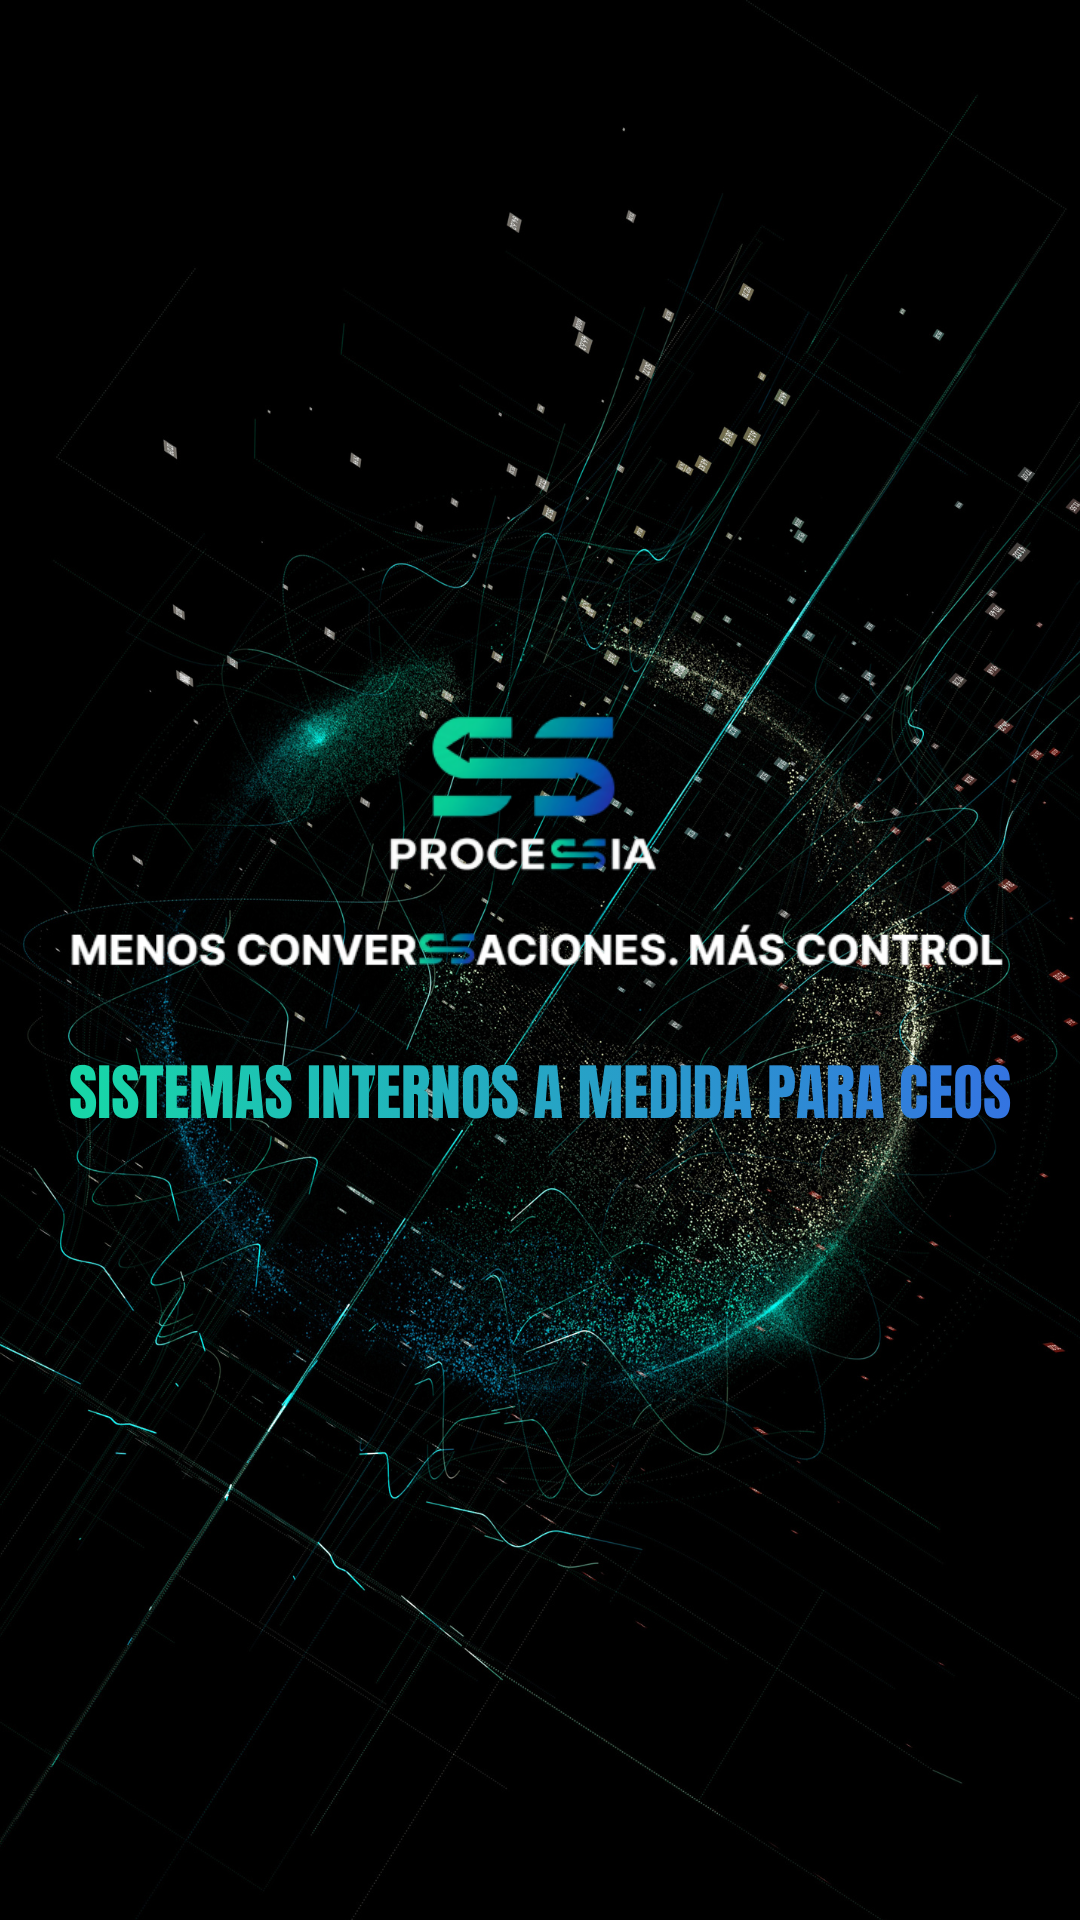
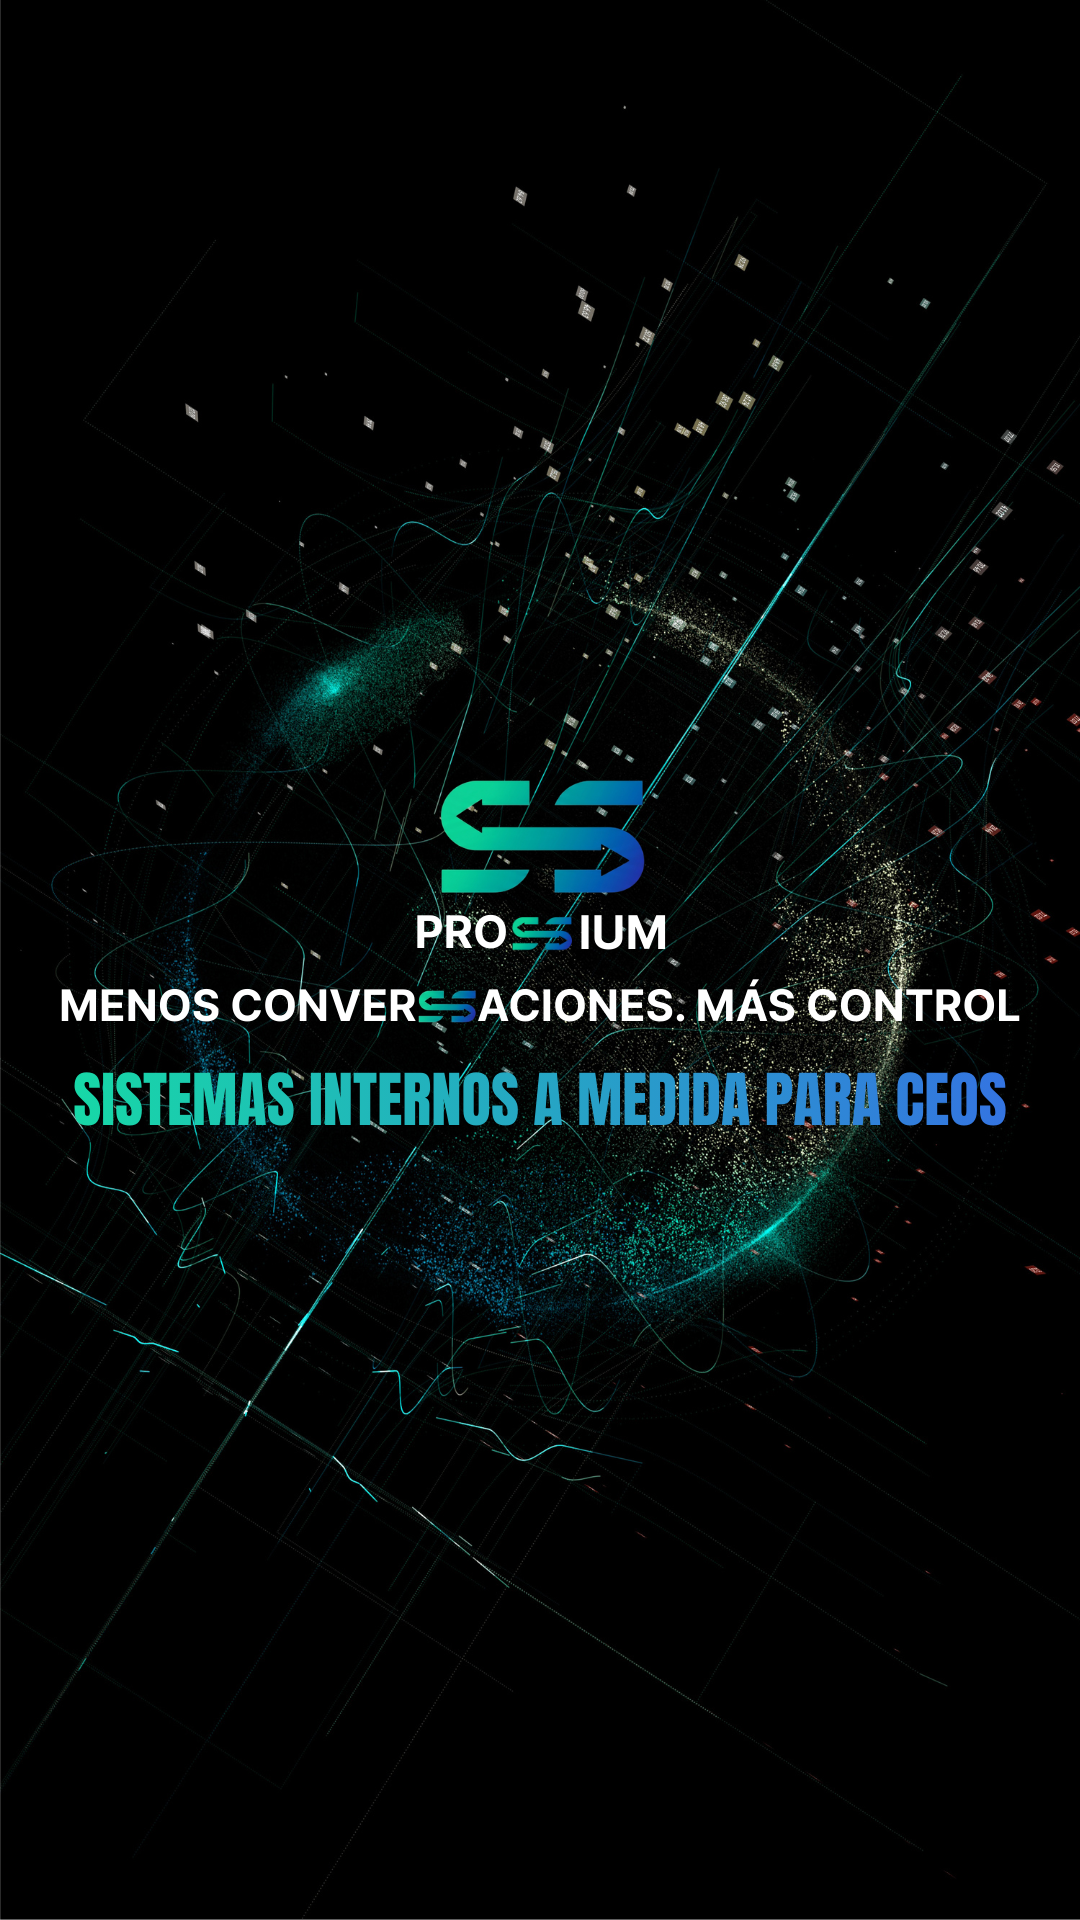
Changes

diff --git a/index.html b/index.html
@@ -4,11 +4,11 @@
     <meta charset="UTF-8" />
     <meta name="viewport" content="width=device-width, initial-scale=1.0, maximum-scale=1.0, user-scalable=no, viewport-fit=cover" />
     <link rel="icon" href="/favicon.png" type="image/png" />
-    <title>Processia — Plataforma CEO</title>
+    <title>Prossium — Plataforma CEO</title>
     <meta name="description" content="Plataforma interna para CEOs impulsada por IA. Entiende en segundos qué está pasando con tus clientes." />
     <meta name="author" content="Processia" />
 
-    <meta property="og:title" content="Processia — Plataforma CEO" />
+    <meta property="og:title" content="Prossium — Plataforma CEO" />
     <meta property="og:description" content="Menos conversaciones. Más claridad. La plataforma que te dice qué clientes necesitan tu atención." />
     <meta property="og:type" content="website" />
     <meta property="og:image" content="/og-image.png" />

diff --git a/src/pages/Landing.tsx b/src/pages/Landing.tsx
@@ -81,7 +81,7 @@ export default function Landing() {
       <div className="fixed inset-0 bg-black overflow-hidden flex flex-col items-center justify-end">
         <img
           src={landingMobile}
-          alt="Processia"
+          alt="Prossium"
           className="absolute inset-0 w-full h-full object-cover"
         />
         <div className="relative z-10 mb-12 pb-[env(safe-area-inset-bottom,0px)]">
@@ -95,7 +95,7 @@ export default function Landing() {
     <div className="h-screen w-screen bg-black relative overflow-hidden flex flex-col items-center justify-center">
       <img
         src={landingComplete}
-        alt="Processia - Menos conversaciones. Más control."
+        alt="Prossium - Menos conversaciones. Más control."
         className="w-full h-full object-contain absolute inset-0"
         style={{
           maskImage: "radial-gradient(ellipse 80% 80% at center, black 50%, transparent 100%)",

diff --git a/src/pages/Home.tsx b/src/pages/Home.tsx
@@ -1,7 +1,7 @@
 import { useNavigate } from "react-router-dom";
 import { Target, ClipboardList, ArrowLeft } from "lucide-react";
 import ParticleNetwork from "@/components/landing/ParticleNetwork";
-import logoSlogan from "@/assets/logo-slogan.png";
+import logoSlogan from "@/assets/prossium-logo-slogan.png";
 
 export default function Home() {
   const navigate = useNavigate();
@@ -28,7 +28,7 @@ export default function Home() {
         <div className="mb-8">
           <img
             src={logoSlogan}
-            alt="Processia - Menos conversaciones. Más control."
+            alt="Prossium - Menos conversaciones. Más control."
             className="w-[70vw] max-w-[500px] sm:max-w-[550px] md:max-w-[600px] object-contain"
             style={{ mixBlendMode: "screen" }}
           />

diff --git a/src/components/layout/HeaderNavigation.tsx b/src/components/layout/HeaderNavigation.tsx
@@ -1,7 +1,7 @@
 import { useNavigate, useLocation } from "react-router-dom";
 import { LayoutDashboard, Database, Home, LogOut } from "lucide-react";
 import { cn } from "@/lib/utils";
-import processiaLogo from "@/assets/processia-logo-new.png";
+import processiaLogo from "@/assets/prossium-logo.png";
 import { useIsMobile } from "@/hooks/use-mobile";
 
 export function HeaderNavigation() {

diff --git a/src/components/dashboard/MobileHome.tsx b/src/components/dashboard/MobileHome.tsx
@@ -20,7 +20,7 @@ import {
 import { useEventContext } from "@/contexts/EventContext";
 import { useNoteContext } from "@/contexts/NoteContext";
 import { Dialog, DialogContent } from "@/components/ui/dialog";
-import processiaLogo from "@/assets/processia-logo-new.png";
+import processiaLogo from "@/assets/prossium-logo.png";
 
 // Mock data
 interface ClientData {

diff --git a/src/components/layout/TopNavigation.tsx b/src/components/layout/TopNavigation.tsx
@@ -1,4 +1,4 @@
-import processiaLogo from "@/assets/processia-logo-new.png";
+import processiaLogo from "@/assets/prossium-logo.png";
 
 // Simplified header - no search, only logo
 export function TopNavigation() {
